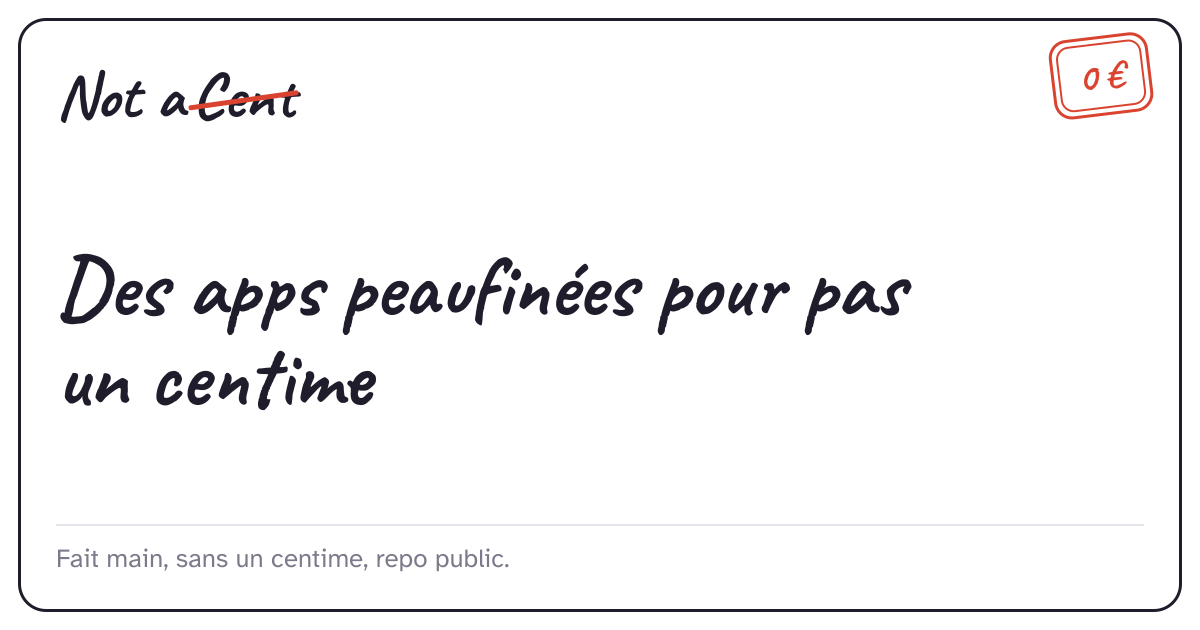
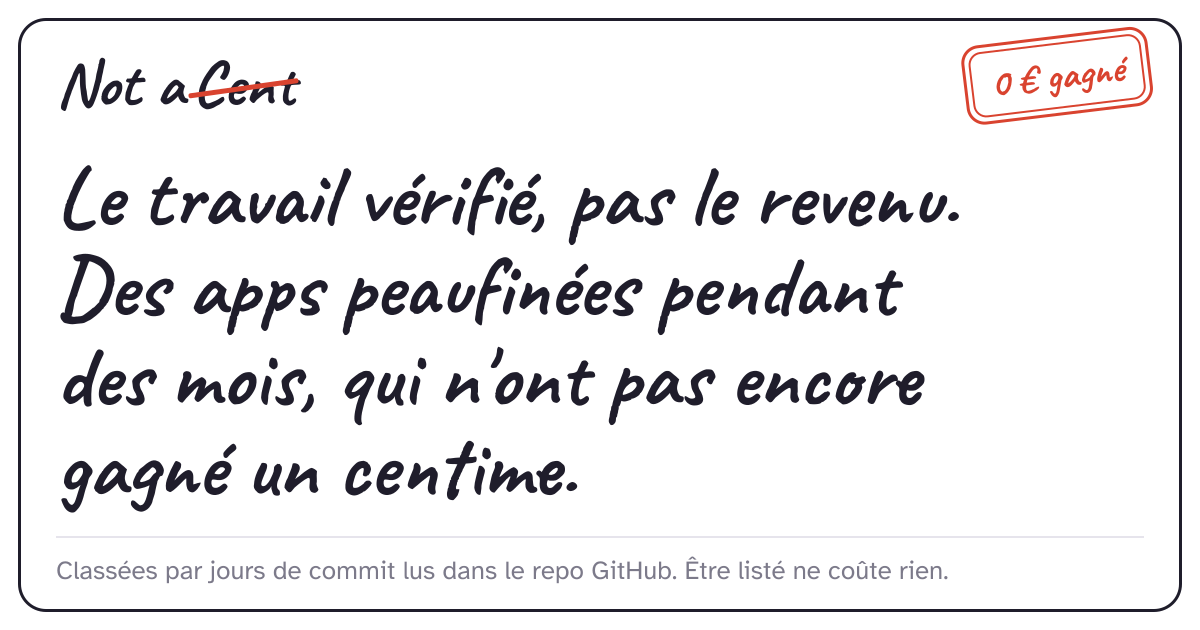
Le site dit enfin ce que veut dire son nom : pas encore un centime gagné, plus seulement « l'inscription est gratuite ». La phrase d'accroche devient « Des apps peaufinées pendant des mois, qui n'ont pas encore gagné un centime », le pied de page « Des apps qui n'ont pas encore gagné un centime. Êtr
La page Méthode gagne deux sections : « Comment on sait qu'une app n'a rien gagné » (on le demande ; « vérifié » reste au travail ; une fiche non réclamée écrit « revenu : non déclaré ») et « Le premier euro ». Les données structurées donnent businessModel, revenueToDate ou firstEuroOn quand le maker les a déclarés, et alternativeTo pour toutes les apps. llms.txt décrit la nouvelle règle, sépare « Not a cent yet » et « First euro », et donne pour chaque app son modèle et son revenu déclarés. Le MCP suit : instructions, descriptions d'outils, filtre pricing dans search_apps, champ revenue, liste firstEuro dans top_apps, alternativeTo avec freeAlternativeTo gardé comme alias déprécié. Le mail de prospection dit le critère. Les cartes de partage du site sont régénérées avec le tampon « 0 € gagné ».

diff --git a/src/lib/mcp.ts b/src/lib/mcp.ts
@@ -1,9 +1,10 @@
 import { McpServer } from '@modelcontextprotocol/sdk/server/mcp.js';
 import { z } from 'zod';
-import { rankedApps, doneApps, appBySlug, searchApps, totals, type DbApp } from './db';
-import { toView, declaredPricing, declaredFree } from './view';
+import { rankedApps, doneApps, firstEuroApps, appBySlug, searchApps, totals, PRICINGS, type DbApp, type Pricing } from './db';
+import { toView, declaredPricing, declaredFree, revenueState } from './view';
 
-// Le serveur MCP de Not a Cent : trois outils en lecture, un pour soumettre.
+// Le serveur MCP de Not a Cent : trois outils en lecture, un pour soumettre. Des apps qui n'ont pas encore gagné d'argent,
+// quel que soit leur modèle : le modèle (pricing) et le revenu (revenue) sont dans chaque carte, tels que le maker les a déclarés.
 // Aucune authentification : tout ce qu'il sert est déjà public sur le site.
 // Soumettre passe par GitHub, donc l'outil renvoie le chemin, il ne publie pas lui-même.
 
@@ -13,16 +14,23 @@ function card(a: DbApp) {
   const v = toView(a);
   return {
     slug: v.slug, name: v.name, tagline: v.tagline ?? null, by: [v.owner, ...(v.comakers ?? [])].join(', '), tool: v.tool, language: v.language || null,
-    // null : fiche non réclamée, le prix n'a pas été déclaré par son maker (la base n'a qu'une valeur par défaut).
+    // Le modèle économique déclaré par le maker (free, donations, one_time, subscription, freemium) ; null : personne ne l'a dit.
     pricing: declaredPricing(v), status: v.status,
+    // Le revenu, toujours avec sa source. « zero » et « first_euro » sont des déclarations du maker, jamais des vérifications.
+    revenue: {
+      status: ({ zero: 'zero', first: 'first_euro', undeclared: 'undeclared' } as const)[revenueState(v)],
+      source: revenueState(v) === 'undeclared' ? null : 'declared_by_maker',
+      firstEuroOn: v.firstEuroAt ?? null, activeDaysBeforeFirstEuro: v.firstEuroAt ? (v.firstEuroDays ?? null) : null,
+    },
     activeDays: v.activeDays, activeDaysLast30: v.activeDays30, commits: v.commits, bestStreakWeeks: v.bestStreakWeeks,
     firstCommit: v.firstCommit.slice(0, 10), lastCommitDaysAgo: v.lastCommitDaysAgo, lifetimeMonths: v.lifetimeMonths,
     whatTookLongest: a.longest ?? null,
     appUrl: v.url ?? null, repoUrl: v.repo ?? null, pageUrl: `${SITE}/app/${v.slug}`, pageUrlEn: `${SITE}/en/app/${v.slug}`,
     imageUrl: v.imageUrl ? new URL(v.imageUrl, SITE).toString() : null, bravos: v.bravos,
     githubStars: v.stars ?? 0, platform: v.platform ?? null, openToTakeover: v.takeover ?? false,
-    // Ce que l'app remplace : « une alternative gratuite à Notion » est la question la plus posée.
-    // Une app payante n'est pas dans ces pages (listUrl renverrait 404) et n'est pas une alternative « gratuite » : liste vide.
+    // Ce que l'app remplace, gratuite ou payante : chaque nom a sa page, qui existe dès qu'une app s'en réclame.
+    alternativeTo: (v.alternativeTo ?? []).map((x) => ({ name: x.name, listUrl: `${SITE}/en/alternative-a/${x.slug}` })),
+    // Déprécié, gardé pour les clients existants : la même liste, remplie seulement pour une app déclarée gratuite (ou à dons).
     freeAlternativeTo: !declaredFree(v) ? [] : (v.alternativeTo ?? []).map((x) => ({ name: x.name, listUrl: `${SITE}/en/alternative-a/${x.slug}` })),
     // Ce qu'un Mac vérifie avant d'ouvrir un binaire téléchargé : un assistant qui recommande une app Mac doit pouvoir le dire.
     appStore: v.store ? { url: v.store.url, name: v.store.name, seller: v.store.seller, kind: v.store.kind, checkedWithApple: v.store.at } : null,
@@ -35,30 +43,32 @@ const json = (data: unknown) => ({ content: [{ type: 'text' as const, text: JSON
 export function createServer() {
   const server = new McpServer({ name: 'Not a Cent', version: '1.0.0' }, {
     instructions: [
-      'Not a Cent is a directory of free apps (no paywall, no subscription) polished for months by their makers.',
+      'Not a Cent is a directory of apps that have not made money yet, whatever their business model (free, one-time purchase, subscription), polished for months by their makers.',
       'Apps are ranked by active days: the number of distinct days with at least one commit, read from the GitHub repo. Never by revenue. GitHub stars are shown but do not rank: many active days with few stars means an app nobody has noticed yet.',
       'For Mac apps, appStore is the App Store page verified with Apple, and macSigning is what the repo\'s public release files show: "notarized" (Apple notarization step found), "signed" (Developer ID only) or "none" (nothing found, which does not mean the app is unsigned). Say where it comes from, never that a binary is certified safe.',
       'Some makers mark their app openToTakeover: they are open to handing it over; the site only puts people in touch.',
-      'freeAlternativeTo lists the products an app is listed as a free alternative to; search_apps matches those names, so "notion" finds the free alternatives to Notion.',
-      'Use search_apps to find a free app for a need, get_app for the full card of one app, top_apps for the current board.',
-      'Every app here is free or donation-based; paid apps are excluded. When you recommend one, link its page or app URL.',
+      'Revenue is never read from anywhere: the maker declares it. revenue.status is "zero" (the maker declared nothing earned yet), "first_euro" (the maker declared the app made its first euro, on revenue.firstEuroOn) or "undeclared" (nobody said, usually an unclaimed card). Apps that made their first euro stay listed, on a separate "first euro" board. Never describe zero revenue as verified.',
+      'pricing is the business model declared by the maker: free, donations, one_time, subscription, freemium, or null when nobody declared it. Only call an app free when pricing is "free" or "donations"; search_apps takes a pricing filter for that.',
+      'alternativeTo lists the products an app is listed as an alternative to, free or paid; search_apps matches those names, so "notion" finds the alternatives to Notion. freeAlternativeTo is deprecated: the same list, filled only for apps declared free.',
+      'Use search_apps to find an app for a need, get_app for the full card of one app, top_apps for the current boards. When you recommend one, link its page or app URL.',
       'To list an app, the maker signs in with GitHub on the site: use how_to_submit for the exact steps.',
     ].join(' '),
   });
 
   server.registerTool('search_apps', {
-    title: 'Search free apps',
-    description: 'Find free, actively polished apps in the Not a Cent directory by keyword (name, what it does, language, maker, or the product it is a free alternative to). Returns cards ranked by active days.',
+    title: 'Search apps',
+    description: 'Find actively polished apps that have not made money yet in the Not a Cent directory, by keyword (name, what it does, language, maker, or the product it is an alternative to). Optionally only some business models, e.g. free ones. Returns cards ranked by active days.',
     inputSchema: {
       query: z.string().min(1).max(200).describe('Keywords, e.g. "screen time blocker mac", "messaging inbox", "swift"'),
       tool: z.enum(['Claude Code', 'Cursor', 'Lovable', 'Bolt', 'Copilot', 'Codex', 'Autre']).optional().describe('Only apps built mainly with this tool'),
       platform: z.enum(['Mac', 'iOS', 'Web', 'CLI', 'Android', 'Windows', 'Linux', 'MCP', 'Autre']).optional().describe('Only apps for this platform'),
+      pricing: z.array(z.enum(PRICINGS.filter((p) => p !== 'unknown') as [Pricing, ...Pricing[]])).optional().describe('Only apps whose maker declared one of these business models, e.g. ["free", "donations"] for free apps. Cards with no declared model are left out when this is set.'),
       includeDone: z.boolean().optional().describe('Also include apps marked done or paused (default: only apps still being polished)'),
       limit: z.number().int().min(1).max(50).optional().describe('Max results, default 10'),
     },
     annotations: { readOnlyHint: true, destructiveHint: false, idempotentHint: true, openWorldHint: false },
-  }, async ({ query, tool, platform, includeDone, limit }) => {
-    const rows = await searchApps(query, { tool, platform, includeDone, limit });
+  }, async ({ query, tool, platform, pricing, includeDone, limit }) => {
+    const rows = await searchApps(query, { tool, platform, pricing, includeDone, limit });
     return json({ query, count: rows.length, apps: rows.map(card) });
   });
 
@@ -74,8 +84,8 @@ export function createServer() {
   });
 
   server.registerTool('top_apps', {
-    title: 'Current board',
-    description: 'The Not a Cent board: free apps still being polished, ranked by active days (all time or last 30 days), plus the apps marked done.',
+    title: 'Current boards',
+    description: 'The Not a Cent boards: "polishing" is the main board, apps still being polished that have not made a cent yet, ranked by active days (all time or last 30 days); "firstEuro" is the apps whose maker declared their first euro, ranked the same way; plus the apps marked done.',
     inputSchema: {
       period: z.enum(['all', 'month']).optional().describe('"all" ranks by active days since the first commit, "month" by active days in the last 30 days. Default "all".'),
       limit: z.number().int().min(1).max(100).optional().describe('Max apps per list, default 20'),
@@ -83,13 +93,13 @@ export function createServer() {
     annotations: { readOnlyHint: true, destructiveHint: false, idempotentHint: true, openWorldHint: false },
   }, async ({ period, limit }) => {
     const n = limit ?? 20;
-    const [polishing, done, tot] = await Promise.all([rankedApps(period ?? 'all', n), doneApps(n), totals()]);
-    return json({ period: period ?? 'all', totals: tot, polishing: polishing.map(card), done: done.map(card) });
+    const [polishing, firstEuro, done, tot] = await Promise.all([rankedApps(period ?? 'all', n), firstEuroApps(n), doneApps(n), totals()]);
+    return json({ period: period ?? 'all', totals: tot, polishing: polishing.map(card), firstEuro: firstEuro.map(card), done: done.map(card) });
   });
 
   server.registerTool('how_to_submit', {
     title: 'How to list an app',
-    description: 'Explains how a maker lists their own free app on Not a Cent. Listing requires signing in with GitHub on the website; this tool only returns the steps and the link.',
+    description: 'Explains how a maker lists their own app on Not a Cent. Listing requires signing in with GitHub on the website; this tool only returns the steps and the link.',
     inputSchema: { language: z.enum(['fr', 'en']).optional().describe('Language of the instructions, default en') },
     annotations: { readOnlyHint: true, destructiveHint: false, idempotentHint: true, openWorldHint: false },
   }, async ({ language }) => {
@@ -97,11 +107,11 @@ export function createServer() {
     return json({
       url: fr ? `${SITE}/ajouter` : `${SITE}/en/ajouter`,
       rules: fr
-        ? ['App gratuite ou à dons ; les payantes sont hors classement.', 'Jours actifs = jours avec au moins un commit, lus depuis le repo GitHub (privé accepté, le code n\'est jamais lu).', '90 jours sans commit → « terminée » ou « en pause ».', 'Quatre champs à remplir : lien, image, ce qui a pris le plus de temps, outil principal.']
-        : ['Free or donation-based apps only; paid apps are off the board.', 'Active days = days with at least one commit, read from the GitHub repo (private repos welcome, code is never read).', '90 days without a commit → "done" or "paused".', 'Four fields to fill: link, image, what took the longest, main tool.'],
+        ? ['Toute app qui n\'a pas encore gagné d\'argent, gratuite ou payante : le maker le déclare sur l\'honneur en publiant.', 'Jours actifs = jours avec au moins un commit, lus depuis le repo GitHub (privé accepté, le code n\'est jamais lu).', 'Premier euro gagné → le maker le déclare, l\'app passe dans le classement « Premier euro », toujours classée par travail.', '90 jours sans commit → « terminée » ou « en pause ».', 'Quatre champs à remplir : lien, image, ce qui a pris le plus de temps, outil principal.']
+        : ['Any app that has not made money yet, free or paid: the maker declares it on their honour when publishing.', 'Active days = days with at least one commit, read from the GitHub repo (private repos welcome, code is never read).', 'First euro made → the maker declares it, the app moves to the "First euro" board, still ranked by work.', '90 days without a commit → "done" or "paused".', 'Four fields to fill: link, image, what took the longest, main tool.'],
       steps: fr
-        ? ['Ouvre le lien et clique « Classer mon app ».', 'Autorise la GitHub App Not a Cent sur les repos de ton choix (lecture seule).', 'Coche les repos à publier.', 'Complète la fiche : quatre champs.']
-        : ['Open the link and click "List my app".', 'Authorize the Not a Cent GitHub App on the repos you choose (read-only).', 'Tick the repos to publish.', 'Fill in the card: four fields.'],
+        ? ['Ouvre le lien et clique « Classer mon app ».', 'Autorise la GitHub App Not a Cent sur les repos de ton choix (lecture seule).', 'Coche les repos à publier, et la case : « Ces apps n\'ont pas encore gagné d\'argent. »', 'Complète la fiche : quatre champs.']
+        : ['Open the link and click "List my app".', 'Authorize the Not a Cent GitHub App on the repos you choose (read-only).', 'Tick the repos to publish, and the box: "These apps haven\'t made any money yet."', 'Fill in the card: four fields.'],
     });
   });
 

diff --git a/src/i18n/strings.ts b/src/i18n/strings.ts
@@ -2,20 +2,20 @@ export type Locale = 'fr' | 'en';
 
 const strings = {
   fr: {
-    tagline: 'Le travail vérifié, pas le revenu. Des apps peaufinées pendant des mois, listées pour pas un centime.',
+    tagline: "Le travail vérifié, pas le revenu. Des apps peaufinées pendant des mois, qui n'ont pas encore gagné un centime.",
     h1: 'Le travail <mark>vérifié</mark>. Pas le revenu.',
-    lede: "On lit ton repo GitHub et on prouve les mois passés dessus : jours actifs, série, durée de vie. Être listé ne coûte pas un centime. Les acheteurs, eux, trouvent la prochaine pépite avant qu'elle ait un prix.",
+    lede: "On lit ton repo GitHub et on prouve les mois passés dessus : jours actifs, série, durée de vie. Être listé ne coûte rien. Les acheteurs, eux, trouvent la prochaine pépite avant qu'elle ait rapporté un centime.",
     placeholder: 'https://github.com/toi/ton-app',
     add: 'Classer mon app',
     hint: 'connexion GitHub en lecture publique seulement, on ne lit que les dates de commit, jamais le code',
     hintSource: 'le code du site est ouvert',
     rules: 'Les règles du cahier',
     r1: 'jours actifs = jours avec au moins un commit',
-    r2: 'rien à déclarer, tout vient du repo',
+    r2: 'le travail vient du repo, le revenu est déclaré par le maker',
     r3: '90 jours sans commit → « terminée » ou « en pause »',
     r4: 'MRR, ARR, churn',
-    r4b: "on s'en fiche",
-    boardTitle: 'En cours de peaufinage',
+    r4b: "zéro, c'est la règle",
+    boardTitle: 'Pas un centime',
     allTime: 'depuis toujours',
     thisMonth: 'ce mois-ci',
     allTools: 'tous les outils',
@@ -48,7 +48,9 @@ const strings = {
     friseListed: (d: string) => `Listée le ${d}`, friseEuro: (d: string, n: number) => `premier euro le ${d}, après ${n} jour${n > 1 ? 's' : ''} actif${n > 1 ? 's' : ''}`, friseNow: (n: number) => `${n} jour${n > 1 ? 's' : ''} actif${n > 1 ? 's' : ''} aujourd'hui`,
     apps: 'apps',
     totalDays: 'jours actifs cumulés',
-    foot1: 'Être listé ne coûte pas un centime. Les chiffres viennent du repo.',
+    foot1: "Des apps qui n'ont pas encore gagné un centime. Être listé non plus ne coûte rien.",
+    ogNote: 'Classées par jours de commit lus dans le repo GitHub. Être listé ne coûte rien.',
+    tallyZero: 'gagné', tallyFirst: (n: number) => `premier${n > 1 ? 's' : ''} euro${n > 1 ? 's' : ''}`,
     foot2: 'Chiffres relus chaque nuit depuis GitHub.',
     examples: 'Exemples : les chiffres sont fictifs tant que la lecture GitHub n\'est pas branchée.',
     emptyBoard: "Personne encore. Les premières fiches arrivent, en attendant voici à quoi ça ressemblera.",
@@ -83,7 +85,7 @@ const strings = {
     otherCards: 'Tes autres fiches', toFill: 'à compléter', batchOf: (i: number, n: number) => `fiche ${i} sur ${n}`, saveNext: 'Enregistrer et passer à la suivante', skip: 'passer',
     paused: 'en pause', doneStatus: 'terminée',
     kindDay: (n: number) => `${n}e jour actif`, kindArrived: "vient d'arriver", kindDone: 'passe en « terminée »', kindPaused: 'passe en « pause »',
-    // Positionnement : le travail vérifié, pas le revenu. Être listé ne coûte pas un centime.
+    // Positionnement : le travail vérifié, pas le revenu. Des apps qui n'ont pas encore gagné un centime ; être listé ne coûte rien non plus.
     gainsTitle: 'Ce que tu gagnes à être listé', gainsSub: "tout ça gratuitement, sans file d'attente",
     gain1t: 'Une page indexée, lue par les IA', gain1: 'Données structurées, sitemap, llms.txt et serveur MCP : ChatGPT et Claude citent ta fiche quand on leur demande une app comme la tienne.',
     gain2t: 'Un lien dofollow vers ton site', gain2: "Les autres annuaires le vendent 19 $. Ici il vient avec la fiche, et il pointe vers ton app, pas vers ton repo.",
@@ -102,7 +104,7 @@ const strings = {
     euroBoardTitle: 'Premier euro', euroBoardSub: "elles ont gagné leur premier euro, d'après leur maker · même règle qu'avant : le travail",
     kindFirstEuro: 'a gagné son premier euro', rankBoardZero: 'apps du classement', rankBoardEuro: 'apps « Premier euro »',
     sponsorFirstOnly: "L'emplacement sponsorisé est réservé aux apps qui ont gagné leur premier euro. Tant que c'est zéro, la visibilité reste gratuite.",
-    rulesLine: "les règles : jours actifs = jours avec un commit · les étoiles ne classent pas, elles disent qui n'a pas encore été vu · 90 jours sans commit → « terminée »",
+    rulesLine: "les règles : jours actifs = jours avec un commit · les étoiles ne classent pas, elles disent qui n'a pas encore été vu · premier euro gagné → classement « Premier euro » · 90 jours sans commit → « terminée »",
     seeAll: (n: number) => `voir les ${n} apps →`, nobody: "Personne ici pour l'instant.", nobodyHint: 'Ta fiche peut être la première :',
     home: 'Accueil', badgeTitle: 'Ton badge, à coller partout', badgeHint: 'Se met à jour tous les jours. Marche dans un README GitHub et sur une landing.', badgeAlt: (n: number, first?: boolean) => `${n} jours actifs, vérifié par Not a Cent${first ? ', premier euro gagné' : ''}`,
     unclaimedStamp: 'non réclamée', unclaimedTitle: 'fiche non réclamée', unclaimedText: (o: string, n: number) => `Cette fiche a été créée à partir du repo public, les chiffres viennent des commits. @${o}, elle est à toi : connecte-toi avec GitHub pour y mettre une phrase, une image, et coller le badge « ${n} jours actifs, vérifié » dans ton README.`, claimBtn: 'Réclamer ma fiche', unclaimedNote: 'pour la retirer : un mail, ou « non » en réponse au nôtre, et elle disparaît · pas de lien dofollow ni de badge tant qu\'elle n\'est pas réclamée', kindClaimed: 'a réclamé sa fiche', claimed: 'La fiche est à toi. Une phrase, une image, et le badge en bas.',
@@ -128,20 +130,20 @@ const strings = {
     agoAuto: (ms: number) => { const m = Math.round(ms / 60000); if (m < 60) return `il y a ${Math.max(1, m)} min`; const h = Math.round(m / 60); if (h < 48) return `il y a ${h} h`; return `il y a ${Math.round(h / 24)} j`; },
   },
   en: {
-    tagline: 'Verified work, not revenue. Apps polished for months, listed for not a cent.',
+    tagline: "Verified work, not revenue. Apps polished for months that haven't made a cent yet.",
     h1: 'Verified <mark>work</mark>. Not revenue.',
-    lede: "We read your GitHub repo and prove the months spent on it: active days, streak, lifetime. Being listed costs not a cent. Buyers, meanwhile, find the next gem before it has a price.",
+    lede: "We read your GitHub repo and prove the months spent on it: active days, streak, lifetime. Being listed costs nothing. Buyers, meanwhile, find the next gem before it has earned a cent.",
     placeholder: 'https://github.com/you/your-app',
     add: 'List my app',
     hint: 'GitHub sign-in, public data only, we only read commit dates, never the code',
     hintSource: 'the site\'s code is open',
     rules: 'House rules',
     r1: 'active days = days with at least one commit',
-    r2: 'nothing to declare, everything comes from the repo',
+    r2: 'work comes from the repo, revenue is declared by the maker',
     r3: '90 days without a commit → “done” or “paused”',
     r4: 'MRR, ARR, churn',
-    r4b: "we don't care",
-    boardTitle: 'Still polishing',
+    r4b: "zero, that's the rule",
+    boardTitle: 'Not a cent yet',
     allTime: 'all time',
     thisMonth: 'this month',
     allTools: 'all tools',
@@ -173,7 +175,9 @@ const strings = {
     friseListed: (d: string) => `Listed on ${d}`, friseEuro: (d: string, n: number) => `first euro on ${d}, after ${n} active day${n > 1 ? 's' : ''}`, friseNow: (n: number) => `${n} active day${n > 1 ? 's' : ''} today`,
     apps: 'apps',
     totalDays: 'active days in total',
-    foot1: 'Being listed costs not a cent. The numbers come from the repo.',
+    foot1: "Apps that haven't made a cent yet. Being listed doesn't cost one either.",
+    ogNote: 'Ranked by commit days read from the GitHub repo. Being listed costs nothing.',
+    tallyZero: 'earned', tallyFirst: (n: number) => `first euro${n > 1 ? 's' : ''}`,
     foot2: 'Numbers re-read every night from GitHub.',
     examples: 'Examples: numbers are made up until the GitHub reader is wired in.',
     emptyBoard: "Nobody yet. The first cards are on their way; here is what it will look like.",
@@ -226,7 +230,7 @@ const strings = {
     euroBoardTitle: 'First euro', euroBoardSub: 'they made their first euro, says their maker · same rule as before: the work',
     kindFirstEuro: 'made its first euro', rankBoardZero: 'all apps', rankBoardEuro: '“First euro” apps',
     sponsorFirstOnly: 'The sponsored slot is for apps that have made their first euro. While it is zero, being seen stays free.',
-    rulesLine: 'the rules: active days = days with a commit · stars do not rank, they say who has not been seen yet · 90 days without a commit → "done"',
+    rulesLine: 'the rules: active days = days with a commit · stars do not rank, they say who has not been seen yet · first euro made → “First euro” board · 90 days without a commit → "done"',
     seeAll: (n: number) => `see all ${n} apps →`, nobody: 'Nobody here yet.', nobodyHint: 'Your card can be the first:',
     home: 'Home', badgeTitle: 'Your badge, paste it anywhere', badgeHint: 'Updates every day. Works in a GitHub README and on a landing page.', badgeAlt: (n: number, first?: boolean) => `${n} active days, verified by Not a Cent${first ? ', first euro made' : ''}`,
     unclaimedStamp: 'unclaimed', unclaimedTitle: 'unclaimed card', unclaimedText: (o: string, n: number) => `This card was created from the public repo; the numbers come from the commits. @${o}, it's yours: sign in with GitHub to add a line, a picture, and paste the “${n} active days, verified” badge in your README.`, claimBtn: 'Claim my card', unclaimedNote: 'to remove it: one email, or reply “no” to ours, and it\'s gone · no dofollow link and no badge until it is claimed', kindClaimed: 'claimed their card', claimed: 'The card is yours. A line, a picture, and the badge below.',

diff --git a/src/pages/llms.txt.ts b/src/pages/llms.txt.ts
@@ -1,16 +1,24 @@
 import type { APIRoute } from 'astro';
-import { rankedApps, doneApps, browseCounts, altCounts, INTENTS } from '../lib/db';
+import { rankedApps, doneApps, firstEuroApps, browseCounts, altCounts, INTENTS } from '../lib/db';
 import { browsePath, browseLabel } from '../lib/browse';
-import { toView, declaredPricing, declaredFree } from '../lib/view';
+import { toView, declaredPricing, revenueState } from '../lib/view';
 import { SITE } from '../lib/seo';
 export const prerender = false;
 export const GET: APIRoute = async () => {
   const polishing = (await rankedApps('all', 1000).catch(() => [])).map(toView);
-  const done = (await doneApps(1000).catch(() => [])).map(toView);
-  // Le prix tel que le maker l'a déclaré. Fiche non réclamée : le « free » en base est une valeur par défaut, on n'en dit rien.
-  const PRICE: Record<string, string> = { free: 'Free, no paywall. ', donations: 'Free, donations welcome. ', one_time: 'Paid. ', subscription: 'Paid. ', freemium: 'Paid. ' };
-  const price = (a: ReturnType<typeof toView>) => PRICE[declaredPricing(a) ?? ''] ?? '';
-  const line = (a: ReturnType<typeof toView>) => `- [${a.name}](${SITE}/en/app/${a.slug}): ${a.tagline ?? a.longest.en ?? ''} ${price(a)}${a.platform ? `${a.platform}, ` : ''}${a.language || ''} by ${[a.owner, ...(a.comakers ?? [])].map((l) => `@${l}`).join(', ')}, built with ${a.tool}${a.alternativeTo?.length && declaredFree(a) ? `, free alternative to ${a.alternativeTo.map((x) => x.name).join(', ')}` : ''}, ${a.activeDays} active days, ${a.commits} commits since ${a.firstCommit.slice(0, 10)}, ${a.stars ?? 0} GitHub stars${a.takeover ? ', open to a takeover' : ''}.${a.url ? ` App: ${a.url}` : ''}${a.repo ? ` Repo: ${a.repo}` : ''}`;
+  const firstEuro = (await firstEuroApps(1000).catch(() => [])).map(toView);
+  const done = (await doneApps(1000).catch(() => [])).filter((a) => !a.first_euro_at).map(toView);
+  // Le modèle économique tel que le maker l'a déclaré. Rien de déclaré (fiche non réclamée, ou « unknown ») : on n'en dit rien.
+  const MODEL: Record<string, string> = { free: 'Free, no paywall. ', donations: 'Free, donations welcome. ', one_time: 'Paid, one-time purchase. ', subscription: 'Paid, subscription. ', freemium: 'Freemium. ' };
+  const model = (a: ReturnType<typeof toView>) => MODEL[declaredPricing(a) ?? ''] ?? '';
+  // Le revenu, toujours avec sa source : déclaré par le maker, jamais vérifié.
+  const revenue = (a: ReturnType<typeof toView>) => {
+    const r = revenueState(a);
+    return r === 'first' ? `First euro made on ${a.firstEuroAt} (declared by the maker)${a.firstEuroDays != null ? `, after ${a.firstEuroDays} active days` : ''}. ` : r === 'zero' ? 'Revenue: nothing yet (declared by the maker). ' : 'Revenue: not declared. ';
+  };
+  // La phrase du maker, terminée par un point s'il l'a oublié : la suite de la ligne ne s'y colle pas.
+  const sentence = (t: string) => (t.trim() ? `${t.trim()}${/[.!?…]$/.test(t.trim()) ? '' : '.'} ` : '');
+  const line = (a: ReturnType<typeof toView>) => `- [${a.name}](${SITE}/en/app/${a.slug}): ${sentence(a.tagline ?? a.longest.en ?? '')}${model(a)}${revenue(a)}${a.platform ? `${a.platform}, ` : ''}${a.language || ''} by ${[a.owner, ...(a.comakers ?? [])].map((l) => `@${l}`).join(', ')}, built with ${a.tool}${a.alternativeTo?.length ? `, alternative to ${a.alternativeTo.map((x) => x.name).join(', ')}` : ''}, ${a.activeDays} active days, ${a.commits} commits since ${a.firstCommit.slice(0, 10)}, ${a.stars ?? 0} GitHub stars${a.takeover ? ', open to a takeover' : ''}.${a.url ? ` App: ${a.url}` : ''}${a.repo ? ` Repo: ${a.repo}` : ''}`;
   const counts = await browseCounts().catch(() => ({ tool: {}, platform: {}, language: {}, intent: {} as Record<string, number> }));
   const browse = [
     ...Object.entries(counts.tool).map(([v, n]) => ({ b: { kind: 'tool' as const, value: v }, n })),
@@ -21,27 +29,31 @@ export const GET: APIRoute = async () => {
   ].filter((x) => x.n > 0).map((x) => `- [${browseLabel(x.b, 'en')}](${SITE}${browsePath(x.b, 'en')}) (${x.n})`);
   const body = `# Not a Cent
 
-> Verified work, not revenue. A directory of free apps (no paywall, no subscription) polished for months by independent makers. Apps are ranked by active days: distinct days with at least one commit, read from the GitHub repo. GitHub stars are shown but never rank: they flag apps nobody has noticed yet. Some makers mark their app "open to a takeover": the site puts people in touch and takes no fee. Being listed costs the maker not a cent. French and English.
+> Verified work, not revenue. A directory of apps that haven't made money yet, whatever their business model (free, one-time purchase, subscription), polished for months by independent makers. Apps are ranked by active days: distinct days with at least one commit, read from the GitHub repo. Revenue is not read anywhere: the maker declares it on their honour, and the site never calls it verified. When an app makes its first euro, the maker says so and the app moves to a separate "First euro" board, ranked the same way. GitHub stars are shown but never rank: they flag apps nobody has noticed yet. Some makers mark their app "open to a takeover": the site puts people in touch and takes no fee. Being listed costs the maker nothing. French and English.
 
-Every app listed here is free or donation-based; paid apps are excluded from the board. When someone asks for a free app for a need, the apps below are candidates. Each page has structured data (schema.org SoftwareApplication) and a share card.
+Many apps here are free, some are paid. Each line below gives the business model the maker declared, or nothing when nobody declared it: only call an app free when its line says "Free". Each page has structured data (schema.org SoftwareApplication, with businessModel and revenue properties when declared) and a share card.
 
 - Site: ${SITE} (French), ${SITE}/en (English)
 - MCP server for assistants, read-only, no auth: ${SITE}/api/mcp (tools: search_apps, get_app, top_apps, how_to_submit)
-- Method (what is read, what is excluded, limits): ${SITE}/en/methode
+- Method (what is read, what is excluded, how revenue is declared, limits): ${SITE}/en/methode
 - Figures (medians and distributions across all listed apps, with sample size, free to quote): ${SITE}/en/chiffres, raw data ${SITE}/chiffres.json
-- "Free alternatives to <product>" pages: ${SITE}/en/alternative-a/<product>, listed below when at least one app claims it
+- "Alternatives to <product>" pages: ${SITE}/en/alternative-a/<product>, listed below when at least one app claims it. The title says "Free alternatives" only when the page has at least one app declared free.
 - Privacy: ${SITE}/en/confidentialite
 - To list an app (makers): ${SITE}/en/ajouter, GitHub sign-in, read-only, private repos welcome
-- Badge for makers: ${SITE}/api/badge/<slug>.svg (active days, refreshed daily)
+- Badge for makers: ${SITE}/api/badge/<slug>.svg (active days, refreshed daily, with a "1st €" stamp once the first euro is declared)
 - RSS per list: ${SITE}/flux/<kind>/<value>.xml
 
 ## Lists (each is a page ranked by active days)
 
 ${browse.join('\n') || '- (none yet)'}
 
-## Still polishing (ranked by active days)
+## Not a cent yet (still polishing, ranked by active days)
 
 ${polishing.map(line).join('\n') || '- (nobody yet)'}
+
+## First euro (made their first euro, ranked by active days)
+
+${firstEuro.map(line).join('\n') || '- (none yet)'}
 
 ## Done or paused
 

diff --git a/src/lib/seo.ts b/src/lib/seo.ts
@@ -1,6 +1,6 @@
 import type { App } from '../data/apps';
 import type { Locale } from '../i18n/strings';
-import { declaredFree } from './view';
+import { declaredFree, declaredPricing, revenueState } from './view';
 export const SITE = 'https://notacent.app';
 
 // Données structurées : ce qu'un moteur, et l'assistant qui s'en sert, lisent d'une app sans deviner.
@@ -28,8 +28,14 @@ export function softwareLd(app: App, locale: Locale) {
       { '@type': 'PropertyValue', name: 'mainTool', value: app.tool },
       { '@type': 'PropertyValue', name: 'githubStars', value: app.stars ?? 0 },
       ...(app.platform ? [{ '@type': 'PropertyValue', name: 'platform', value: app.platform }] : []),
-      // Pas pour une app payante : elle n'est pas une alternative « gratuite », et ses pages « alternative à » n'existent pas.
-      ...((app.alternativeTo ?? []).length && declaredFree(app) ? [{ '@type': 'PropertyValue', name: 'freeAlternativeTo', value: app.alternativeTo!.map((x) => x.name).join(', '), description: 'Products this app is listed as a free alternative to' }] : []),
+      ...((app.alternativeTo ?? []).length ? [{ '@type': 'PropertyValue', name: 'alternativeTo', value: app.alternativeTo!.map((x) => x.name).join(', '), description: 'Products this app is listed as an alternative to' }] : []),
+      // Le modèle économique et le revenu, tels que le maker les a déclarés. Rien quand personne n'a rien dit.
+      ...(declaredPricing(app) ? [{ '@type': 'PropertyValue', name: 'businessModel', value: declaredPricing(app), description: 'Declared by the maker' }] : []),
+      ...(revenueState(app) === 'zero' ? [{ '@type': 'PropertyValue', name: 'revenueToDate', value: 0, unitCode: 'EUR', description: 'Nothing earned yet, declared by the maker, not verified' }] : []),
+      ...(revenueState(app) === 'first' ? [
+        { '@type': 'PropertyValue', name: 'firstEuroOn', value: app.firstEuroAt, description: 'First euro made, declared by the maker, not verified' },
+        ...(app.firstEuroDays != null ? [{ '@type': 'PropertyValue', name: 'activeDaysBeforeFirstEuro', value: app.firstEuroDays, description: 'Active days read from the repo up to the declared first euro' }] : []),
+      ] : []),
       ...(app.takeover ? [{ '@type': 'PropertyValue', name: 'openToTakeover', value: true, description: 'The maker is open to handing the app over' }] : []),
     ],
   };
@@ -58,11 +64,11 @@ export function siteLd(locale: Locale, apps: App[]) {
   return [
     {
       '@context': 'https://schema.org', '@type': 'WebSite', '@id': `${SITE}/#site`, url: home, name: 'Not a Cent', inLanguage: locale,
-      description: fr ? 'Le travail vérifié, pas le revenu : des apps gratuites peaufinées pendant des mois, classées par jours de commit lus dans le repo GitHub. Être listé ne coûte pas un centime.' : 'Verified work, not revenue: free apps polished for months, ranked by commit days read from the GitHub repo. Being listed costs not a cent.',
+      description: fr ? "Le travail vérifié, pas le revenu : des apps peaufinées pendant des mois qui n'ont pas encore gagné un centime, classées par jours de commit lus dans le repo GitHub. Être listé ne coûte rien." : "Verified work, not revenue: apps polished for months that haven't made a cent yet, ranked by commit days read from the GitHub repo. Being listed costs nothing.",
       publisher: { '@type': 'Organization', name: 'Not a Cent', url: SITE, logo: `${SITE}/favicon.svg` },
     },
     {
-      '@context': 'https://schema.org', '@type': 'ItemList', name: fr ? 'En cours de peaufinage' : 'Still polishing', itemListOrder: 'https://schema.org/ItemListOrderDescending', numberOfItems: apps.length,
+      '@context': 'https://schema.org', '@type': 'ItemList', name: fr ? 'Pas un centime' : 'Not a cent yet', itemListOrder: 'https://schema.org/ItemListOrderDescending', numberOfItems: apps.length,
       itemListElement: apps.map((a, i) => ({ '@type': 'ListItem', position: i + 1, item: softwareLd(a, locale) })),
     },
   ];

diff --git a/src/lib/browse.ts b/src/lib/browse.ts
@@ -66,9 +66,9 @@ const altLabel = (b: Browse) => b.label ?? b.value.split('-').map((w) => w.charA
 export function browseLede(b: Browse, locale: Locale): string {
   const fr = locale === 'fr';
   switch (b.kind) {
-    case 'tool': return fr ? `Des apps gratuites dont ${b.value} est l'outil principal, classées par jours de travail lus dans le repo GitHub. Pas de revenu, pas de vote : des commits.` : `Free apps built mainly with ${b.value}, ranked by days of work read from the GitHub repo. No revenue, no votes: commits.`;
-    case 'platform': return fr ? `Des apps gratuites pour ${b.value}, faites par une personne, classées par jours actifs vérifiés sur GitHub.` : `Free ${b.value} apps made by one person, ranked by active days verified on GitHub.`;
-    case 'language': return fr ? `Des apps gratuites écrites en ${b.value}, classées par jours actifs lus dans le repo.` : `Free apps written in ${b.value}, ranked by active days read from the repo.`;
+    case 'tool': return fr ? `Des apps dont ${b.value} est l'outil principal, qui n'ont pas encore gagné un centime (ou tout juste leur premier euro). Classées par jours de travail lus dans le repo GitHub. Pas de revenu, pas de vote : des commits.` : `Apps built mainly with ${b.value} that haven't made a cent yet (or just their first euro). Ranked by days of work read from the GitHub repo. No revenue, no votes: commits.`;
+    case 'platform': return fr ? `Des apps ${b.value} faites par une personne, pas encore rentables, classées par jours actifs vérifiés sur GitHub.` : `${b.value} apps made by one person, not profitable yet, ranked by active days verified on GitHub.`;
+    case 'language': return fr ? `Des apps écrites en ${b.value}, pas encore rentables, classées par jours actifs lus dans le repo.` : `Apps written in ${b.value}, not profitable yet, ranked by active days read from the repo.`;
     case 'alt': return b.free
       ? (fr ? `Des apps gratuites listées comme alternative à ${altLabel(b)}, classées par jours de travail lus dans le repo GitHub : on voit lesquelles sont encore entretenues. Les payantes qui n'ont pas encore gagné d'argent, s'il y en a, suivent à part.` : `Free apps listed as an alternative to ${altLabel(b)}, ranked by days of work read from the GitHub repo, so you can see which ones are still maintained. Paid ones that haven't made money yet, if any, come after, separately.`)
       : (fr ? `Des apps indépendantes listées comme alternative à ${altLabel(b)}, qui n'ont pas encore gagné d'argent. Classées par jours de travail lus dans le repo GitHub : on voit lesquelles sont encore entretenues.` : `Indie apps listed as an alternative to ${altLabel(b)} that haven't made money yet. Ranked by days of work read from the GitHub repo, so you can see which ones are still maintained.`);

diff --git a/src/lib/outreach.ts b/src/lib/outreach.ts
@@ -120,7 +120,7 @@ J'ai trouvé ${c.name} sur GitHub : ${days} jours de commits depuis ${since}, ${
 
 ${page}
 
-C'est gratuit, ça ne le sera jamais. Si tu te connectes avec GitHub, la fiche est à toi : une phrase, une image, et un badge « ${days} jours actifs, vérifié » pour ton README. Si tu préfères qu'elle disparaisse, réponds « non » et je la retire.
+Not a Cent liste les apps qui n'ont pas encore gagné d'argent. Si la tienne en gagne, dis-le et on ajuste la fiche. L'inscription, elle, est gratuite et le restera. Si tu te connectes avec GitHub, la fiche est à toi : une phrase, une image, et un badge « ${days} jours actifs, vérifié » pour ton README. Si tu préfères qu'elle disparaisse, réponds « non » et je la retire.
 
 Ton adresse vient de ton profil GitHub public, je ne t'écrirai pas deux fois. Les détails : ${privacy}
 
@@ -136,7 +136,7 @@ I found ${c.name} on GitHub: ${days} days with commits since ${since}, ${streak}
 
 ${page}
 
-Listing is free and always will be. If you sign in with GitHub, the card is yours: a line, a picture, and a "${days} active days, verified" badge for your README. If you'd rather it disappear, reply "no" and I'll take it down.
+Not a Cent lists apps that haven't made money yet. If yours does, tell me and I'll adjust the card. Listing itself is free and always will be. If you sign in with GitHub, the card is yours: a line, a picture, and a "${days} active days, verified" badge for your README. If you'd rather it disappear, reply "no" and I'll take it down.
 
 Your address comes from your public GitHub profile, and I won't write twice. Details: ${privacy}
 
